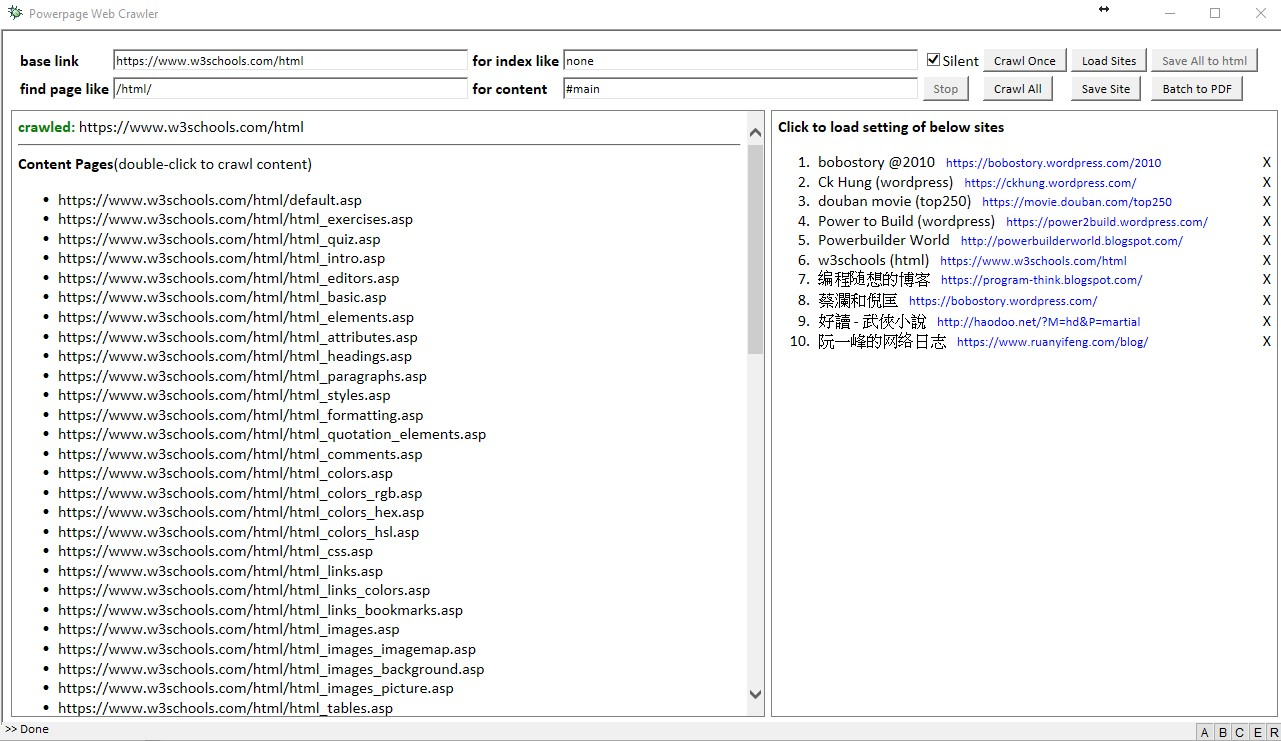
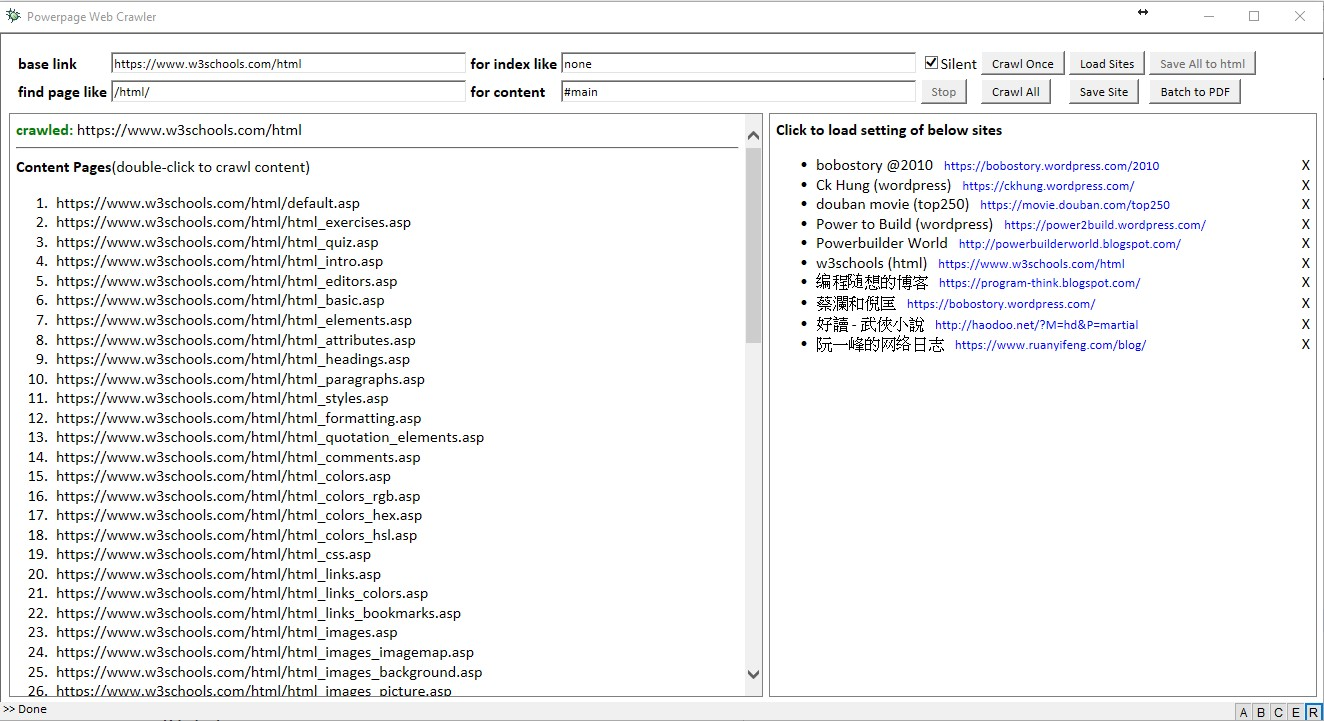
minor rev

Changed region(s): [[0.0, 0.0, 1.0, 1.0], [0.5621, 0.9154, 0.6245, 0.9764]]

diff --git a/source/pp-web-crawler.html b/source/pp-web-crawler.html
@@ -91,10 +91,10 @@ function captureIndex ( result, type, url ) {
   }
 
   for (i in listTodo) html += (i<=count? '<b style="color:green">crawled: </b>' : '[to-do]: ') + listTodo[i] + '\n<br>'
-  html += '<hr/><b>Content Pages</b>(double-click to crawl content)<ul>'
-  for (i=0; i<listPage.length; i++) html += '\n <li ondblclick="captureContent('+i+')">' + listPage[i]
+  html += '<hr/><b>Content Pages</b>(double-click to crawl content)<ol>'
+  for (i in listPage) html += '\n <li ondblclick="captureContent('+i+')">' + listPage[i]
       
-  document.getElementById('left').innerHTML = html + '</ul> Total ' + listPage.length + ' pages'
+  document.getElementById('left').innerHTML = html + '</ol>'
   document.getElementById('right').innerHTML = ''
   setTimeout("crawlNext()", 600 ); 
 }
@@ -126,7 +126,7 @@ function showSites ( result, type, url ) {
     html += ' &nbsp;&nbsp;<small style="color:blue">' + sites.data[i][1] + '</small>'
     html += ' <span style="float:right" onclick="deleteSite(\'' + sites.data[i][1] + '\')">X</span>'
   }  
-  document.getElementById('right').innerHTML = '<b>Click to load setting of below sites</b><br><ol>' + html + '</ol>'  
+  document.getElementById('right').innerHTML = '<b>Click to load setting of below sites</b><br><ul>' + html + '</ul>'  
 }
 
 // load site setting
@@ -197,7 +197,7 @@ function saveCheck(result) {
 
 function saveExecuted(result) { alert('Site setting has been saved to database.\n'+result) }
 
-// svae site to database
+// delete site from database
 function deleteSite(url) {
    if ( confirm('Delete site ' + url + '?') ) {
       sql = "DELETE FROM pp_sites WHERE base_url='" + url + "' "

diff --git a/README.md b/README.md
@@ -74,9 +74,9 @@ Powerpage support the following commandline parameters.
 
 ## Samples
 
-* Screen Layout: (PowerPage)](powerpage.jpg), [Markdown Editor](powerpage-markdown.jpg), [Web Crawler](powerpage-web-crawler.jpg)
-* [Powerpage - Markdown Editor](https://github.com/casualwriter/powerpage-markdown)
-* [Powerpage - Web Crawler](https://github.com/casualwriter/powerpage-web-crawler)
+* Screen Layout of [PowerPage](powerpage.jpg)
+* [Powerpage - Markdown Editor](https://github.com/casualwriter/powerpage-markdown), [Screen](powerpage-markdown.jpg) 
+* [Powerpage - Web Crawler](https://github.com/casualwriter/powerpage-web-crawler), [Screen](powerpage-web-crawler.jpg)
 
 
 ## Modification History
